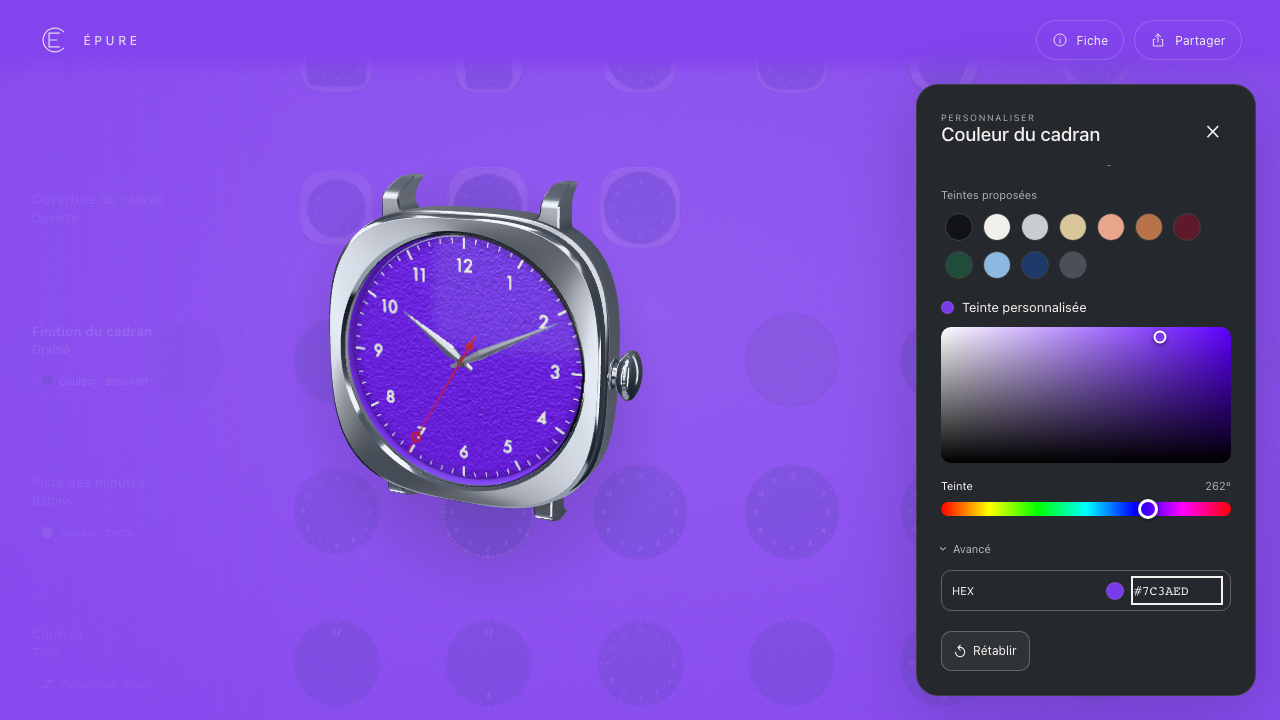
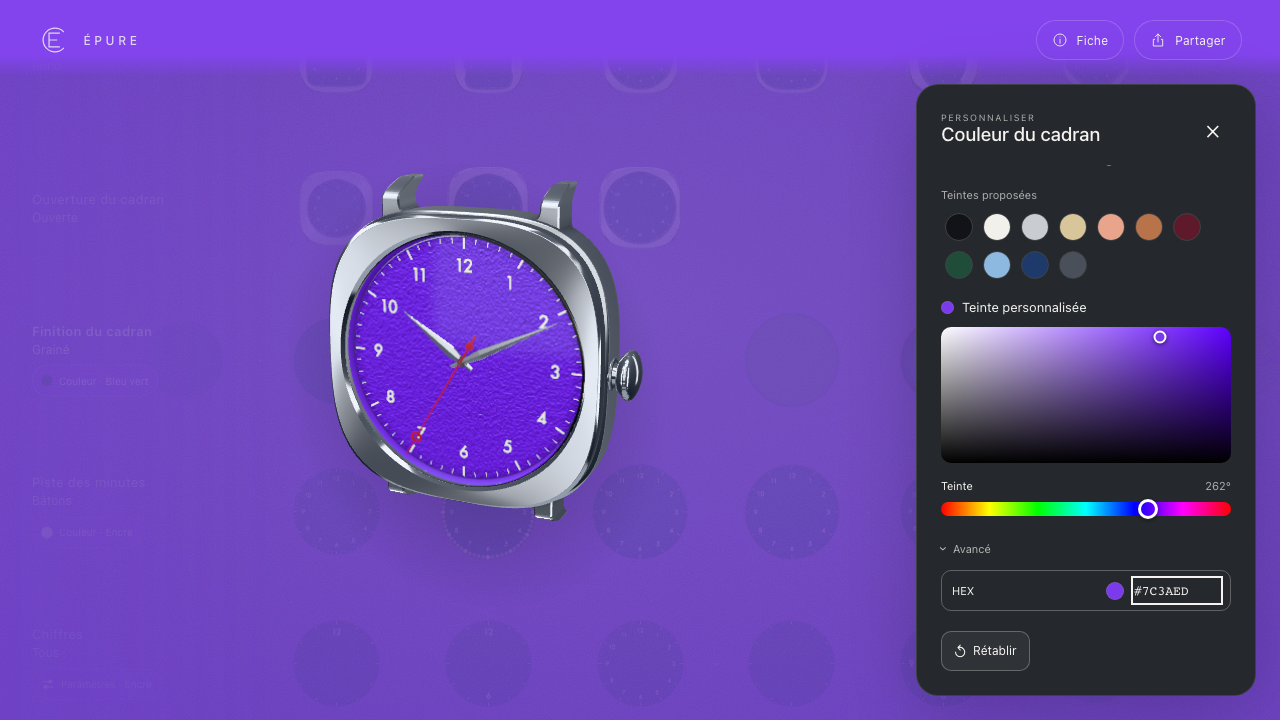
Garder la montre au-dessus du panneau sur téléphone
Sur téléphone, les réglages s'ouvrent en feuille sur 66 % de la hauteur. La
montre, centrée à 20 % de la hauteur, touchait le bord de la feuille : elle se
cale désormais 12 px au-dessus.

diff --git a/src/ui/grid/Grid.svelte b/src/ui/grid/Grid.svelte
@@ -397,6 +397,9 @@
 
   /** Densité de l'écran : les montres et cellules sont calées sur ses pixels (netteté). */
   const dpr = globalThis.devicePixelRatio ?? 1;
+  /** Share of the height a settings sheet takes on phones, and the air left above it. */
+  const PHONE_SHEET_SHARE = 0.66;
+  const PHONE_SHEET_GAP = 12;
   const openSize = $derived(Math.round(Math.min(width, height) * 0.82 * dpr) / dpr);
   const liveScale = $derived(open ? 1 : metrics.watch / Math.max(1, openSize));
   const colorWatchSize = $derived(
@@ -423,7 +426,9 @@
   const watchX = $derived(sidePanel && width >= 760 ? (editing ? -175 : -182) : 0);
   const watchY = $derived(
     editing && width < 760
-      ? -height * 0.3
+      ? // Settings are a bottom sheet on phones (Sheet.svelte, --sheet-max: 66dvh): the watch
+        // rests just above its top edge instead of touching it.
+        height * (1 - PHONE_SHEET_SHARE) - PHONE_SHEET_GAP - colorWatchSize / 2 - height / 2
       : panelShown && width < 760
         ? (cardBand.top + cardBand.bottom) / 2 - height / 2
         : dragY + bumpY,
